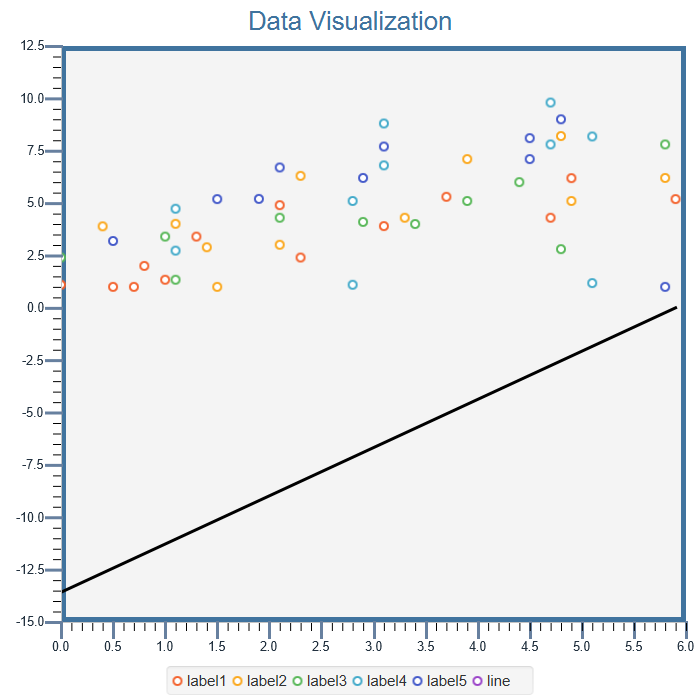
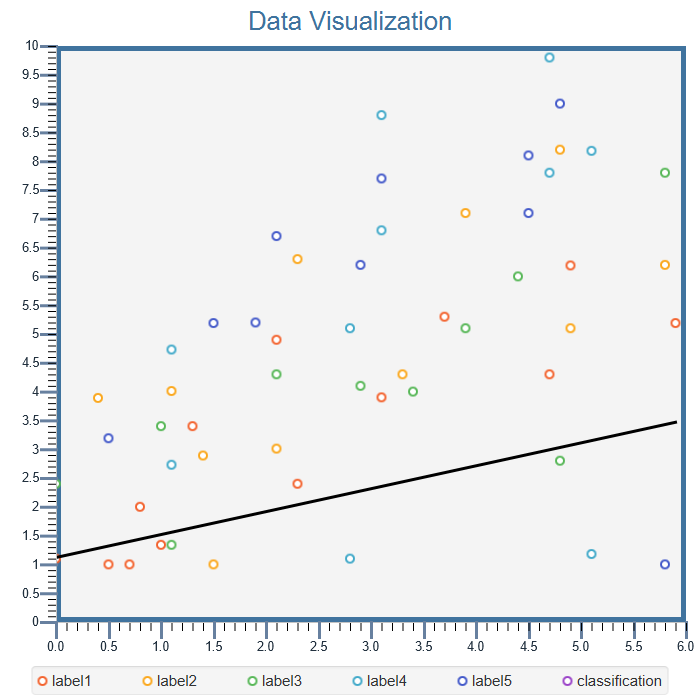
Changed order of sleep and display

diff --git a/DataViLiJ/DataViLiJ/data-vilij/src/classification/RandomClassifier.java b/DataViLiJ/DataViLiJ/data-vilij/src/classification/RandomClassifier.java
@@ -33,6 +33,7 @@ public class RandomClassifier extends Classifier {
 	// currently, this value does not change after instantiation
 	private AtomicBoolean tocontinue;
 	private AtomicBoolean initContinue; //value that does not change
+	private AtomicBoolean isPaused;
 
 	@Override
 	public int getMaxIterations() {
@@ -67,6 +68,8 @@ public class RandomClassifier extends Classifier {
 		this.initContinue = new AtomicBoolean(tocontinue);
 		this.chart = chart;
 		this.appData = appData;
+
+		this.isPaused = new AtomicBoolean(false);
 	}
 
 	@Override
@@ -92,23 +95,21 @@ public class RandomClassifier extends Classifier {
 			if (i % updateInterval == 0) {
 				System.out.printf("Iteration number %d: ", i); //
 				flush();
-				try {
-					Thread.sleep(1000); //simulate performing algorithm 
-					updateData();
-				} catch (InterruptedException ex) {
-					//do nothing
-					return;
-				}
-				if (!isInitContinue()) {
+				updateData();
+				if(!isInitContinue()){
 					appData.enableRun();
 					tocontinue.set(false);
-					while (!tocontinue()) {
-						//don't do anything until it is set to continue
+					while(!tocontinue()){ //wait until play is clicked
 						if(Thread.interrupted()){
 							return;
 						}
 					}
 					appData.disableRun();
+				}
+				try{
+					Thread.sleep(1000);
+				}catch(InterruptedException ex){
+					return;
 				}
 			}
 			if (i > maxIterations * .6 && RAND.nextDouble() < 0.05) {
@@ -132,11 +133,10 @@ public class RandomClassifier extends Classifier {
 		the equation Ax + By + C = 0 still determines a line.  
 		It is only if *both* A and B are zero that the equation is degenerate.  
 		 */
-		//in order to prevent axis resizing, the line should always be inside range
-		//if (a == 0 && b == 0) {
+		if (a == 0 && b == 0) {
 			//not a valid line --> pause algorithm --> show dialog
-			//return;
-		//}
+			return;
+		}
 
 		//ax + by + c = 0
 		// y = (-c -ax) / b
@@ -147,37 +147,34 @@ public class RandomClassifier extends Classifier {
 		visual indication as to the direction in which the line lies, 
 		relative to the displayed rectangle.
 		 */
+
+		/*
+		Your tool should be able to handle the situation in which the 
+		line intersects the display range, and it should be able to 
+		handle the situation in which the line does not intersect the display range.
+		*/
 		Platform.runLater(() -> {
 			XYChart.Series line = (chart.getData().get(chart.getData().size() - 1));
 			Data min = (Data) line.getData().get(0);
 			Data max = (Data) line.getData().get(1);
 			double yVal;
 
-			//double minX = (double) min.getXValue();
-			//yVal = (-c - (a * minX)) / b;
-			//min.setYValue(yVal);
-
-			//double maxX = (double) max.getXValue();
-			//yVal = (-c - (a * maxX)) / b;
-			//max.setYValue(yVal);
-
-			//my implementation
-			double minY = dataset.getMinY();
-			double maxY = dataset.getMaxY();
-			
-			yVal = minY + (Math.random() * maxY);
+			double minX = (double) min.getXValue();
+			yVal = (-c - (a * minX)) / b;
 			min.setYValue(yVal);
-			yVal = minY + (Math.random() * maxY);
+
+			double maxX = (double) max.getXValue();
+			yVal = (-c - (a * maxX)) / b;
 			max.setYValue(yVal);
 
+			//check if line is in chart
 		});
 	}
 
 	/*
 	A better idea would be to have a label in the display that shows the current iteration number that corresponds to what is showing in the chart.
 	task idea!!
-	*/
-
+	 */
 	private void initLine() {
 
 		/*
@@ -225,12 +222,6 @@ public class RandomClassifier extends Classifier {
 		System.out.printf("%d\t%d\t%d%n", output.get(0), output.get(1), output.get(2));
 	}
 
-//    /** A placeholder main method to just make sure this code runs smoothly */
-//    public static void main(String... args) throws IOException {
-//        DataSet          dataset    = DataSet.fromTSDFile(Paths.get("/path/to/some-data.tsd"));
-//        RandomClassifier classifier = new RandomClassifier(dataset, 100, 5, true);
-//        classifier.run(); // no multithreading yet
-//    }
 	@Override
 	public void startAlgorithm() {
 		algorithm.start();
